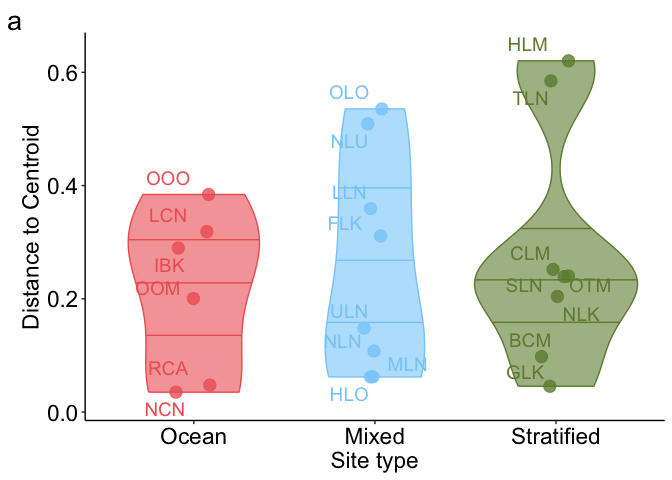
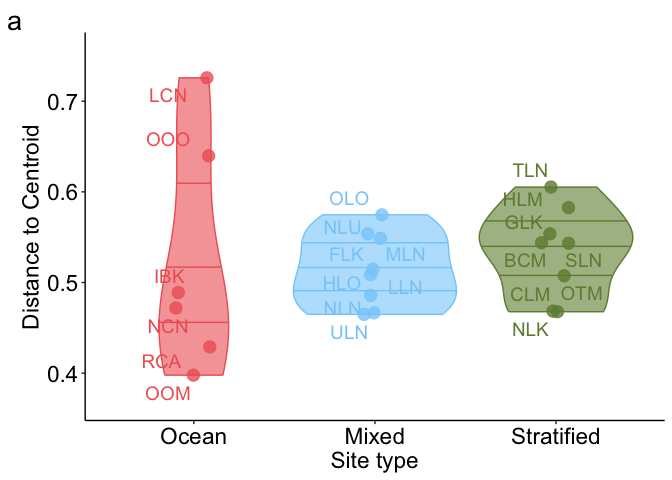
Add files via upload

diff --git a/analyses/SD/SD_analyses.md b/analyses/SD/SD_analyses.md
@@ -4660,7 +4660,7 @@ SD_beta_dist <- BAT::beta(surveyed_sites_lake, abund = F)
 
 ``` r
 # Surveyed sites replacement
-(SD_beta_BD <- betadisper(SD_beta_dist$Brepl, Site_type_group))
+(SD_beta_rep_BD <- betadisper(SD_beta_dist$Brepl, Site_type_group))
 ```
 
     ## Warning in betadisper(SD_beta_dist$Brepl, Site_type_group): some squared
@@ -4684,7 +4684,7 @@ SD_beta_dist <- BAT::beta(surveyed_sites_lake, abund = F)
     ## 0.6075 0.4576 0.4347 0.3451 0.3386 0.2780 0.2574 0.2153
 
 ``` r
-(SD_beta_AOV <- anova(SD_beta_BD))
+(SD_beta_rep_AOV <- anova(SD_beta_rep_BD))
 ```
 
     ## Analysis of Variance Table
@@ -4695,7 +4695,7 @@ SD_beta_dist <- BAT::beta(surveyed_sites_lake, abund = F)
     ## Residuals 19 0.55158 0.029031
 
 ``` r
-(SD_beta_THSD <- TukeyHSD(SD_beta_BD))
+(SD_beta_rep_THSD <- TukeyHSD(SD_beta_rep_BD))
 ```
 
     ##   Tukey multiple comparisons of means
@@ -4710,7 +4710,7 @@ SD_beta_dist <- BAT::beta(surveyed_sites_lake, abund = F)
     ## Stratified-Mixed  0.05373490 -0.1626912 0.2701610 0.8052064
 
 ``` r
-(SD_beta_PM <- adonis2(SD_beta_dist$Brepl ~ env[surveyed_sites,"Site_type"], permutations = 999, method = "euclidean"))
+(SD_beta_rep_PM <- adonis2(SD_beta_dist$Brepl ~ env[surveyed_sites,"Site_type"], permutations = 999, method = "euclidean"))
 ```
 
     ## Permutation test for adonis under reduced model
@@ -4724,7 +4724,7 @@ SD_beta_dist <- BAT::beta(surveyed_sites_lake, abund = F)
     ## Total    21  1.69930  1.00000
 
 ``` r
-(SD_beta_PM_pair <- pairwise.adonis(SD_beta_dist$Brepl, env[surveyed_sites,"Site_type"], p.adjust.m = "bonferroni", perm = 999))
+(SD_beta_rep_PM_pair <- pairwise.adonis(SD_beta_dist$Brepl, env[surveyed_sites,"Site_type"], p.adjust.m = "bonferroni", perm = 999))
 ```
 
     ##                 pairs Df  SumsOfSqs   F.Model         R2 p.value p.adjusted sig
@@ -4734,7 +4734,7 @@ SD_beta_dist <- BAT::beta(surveyed_sites_lake, abund = F)
 
 ``` r
 # Surveyed sites richness
-(SD_beta_BD <- betadisper(SD_beta_dist$Brich, Site_type_group))
+(SD_beta_ric_BD <- betadisper(SD_beta_dist$Brich, Site_type_group))
 ```
 
     ## 
@@ -4755,7 +4755,7 @@ SD_beta_dist <- BAT::beta(surveyed_sites_lake, abund = F)
     ## 2.76461 1.02744 0.16424 0.11046 0.05150 0.04231 0.03669 0.02298
 
 ``` r
-(SD_beta_AOV <- anova(SD_beta_BD))
+(SD_beta_ric_AOV <- anova(SD_beta_ric_BD))
 ```
 
     ## Analysis of Variance Table
@@ -4766,7 +4766,7 @@ SD_beta_dist <- BAT::beta(surveyed_sites_lake, abund = F)
     ## Residuals 19 0.67594 0.035576
 
 ``` r
-(SD_beta_THSD <- TukeyHSD(SD_beta_BD))
+(SD_beta_ric_THSD <- TukeyHSD(SD_beta_ric_BD))
 ```
 
     ##   Tukey multiple comparisons of means
@@ -4781,7 +4781,7 @@ SD_beta_dist <- BAT::beta(surveyed_sites_lake, abund = F)
     ## Stratified-Mixed 0.02363774 -0.2159459 0.2632214 0.9660225
 
 ``` r
-(SD_beta_PM <- adonis2(SD_beta_dist$Brich ~ env[surveyed_sites,"Site_type"], permutations = 999, method = "euclidean"))
+(SD_beta_ric_PM <- adonis2(SD_beta_dist$Brich ~ env[surveyed_sites,"Site_type"], permutations = 999, method = "euclidean"))
 ```
 
     ## Permutation test for adonis under reduced model
@@ -4797,7 +4797,7 @@ SD_beta_dist <- BAT::beta(surveyed_sites_lake, abund = F)
     ## Signif. codes:  0 '***' 0.001 '**' 0.01 '*' 0.05 '.' 0.1 ' ' 1
 
 ``` r
-(SD_beta_PM_pair <- pairwise.adonis(SD_beta_dist$Brich, env[surveyed_sites,"Site_type"], p.adjust.m = "bonferroni", perm = 999))
+(SD_beta_ric_PM_pair <- pairwise.adonis(SD_beta_dist$Brich, env[surveyed_sites,"Site_type"], p.adjust.m = "bonferroni", perm = 999))
 ```
 
     ##                 pairs Df   SumsOfSqs    F.Model          R2 p.value p.adjusted
@@ -5017,19 +5017,19 @@ group <- SD_beta_THSD$group
 (OM_q <- (abs(group[1,1]))/USE)
 ```
 
-    ## [1] 0.6838803
+    ## [1] 0.3677399
 
 ``` r
 (SO_q <- (abs(group[2,1]))/USE)
 ```
 
-    ## [1] 1.012052
+    ## [1] 0.2899708
 
 ``` r
 (MS_q <- (abs(group[3,1]))/BSE)
 ```
 
-    ## [1] 0.3544658
+    ## [1] 0.7104088
 
 ``` r
 # Check values here https://www.socscistatistics.com/pvalues/qdistribution.aspx
@@ -5065,9 +5065,9 @@ outlier_SD_beta_BD_dist_env$is_outlier
 ```
 
     ##   25%   25%   25%   25%   25%   25%   25%   25%   25%   25%   25%   25%   25% 
-    ## FALSE FALSE FALSE FALSE  TRUE FALSE FALSE FALSE FALSE FALSE FALSE FALSE FALSE 
+    ## FALSE FALSE FALSE FALSE FALSE FALSE FALSE FALSE FALSE FALSE FALSE FALSE FALSE 
     ##   25%   25%   25%   25%   25%   25%   25%   25%   25% 
-    ## FALSE FALSE FALSE FALSE FALSE FALSE FALSE  TRUE FALSE
+    ## FALSE FALSE FALSE FALSE FALSE FALSE FALSE FALSE FALSE
 
 ``` r
 # Plot dispersion
